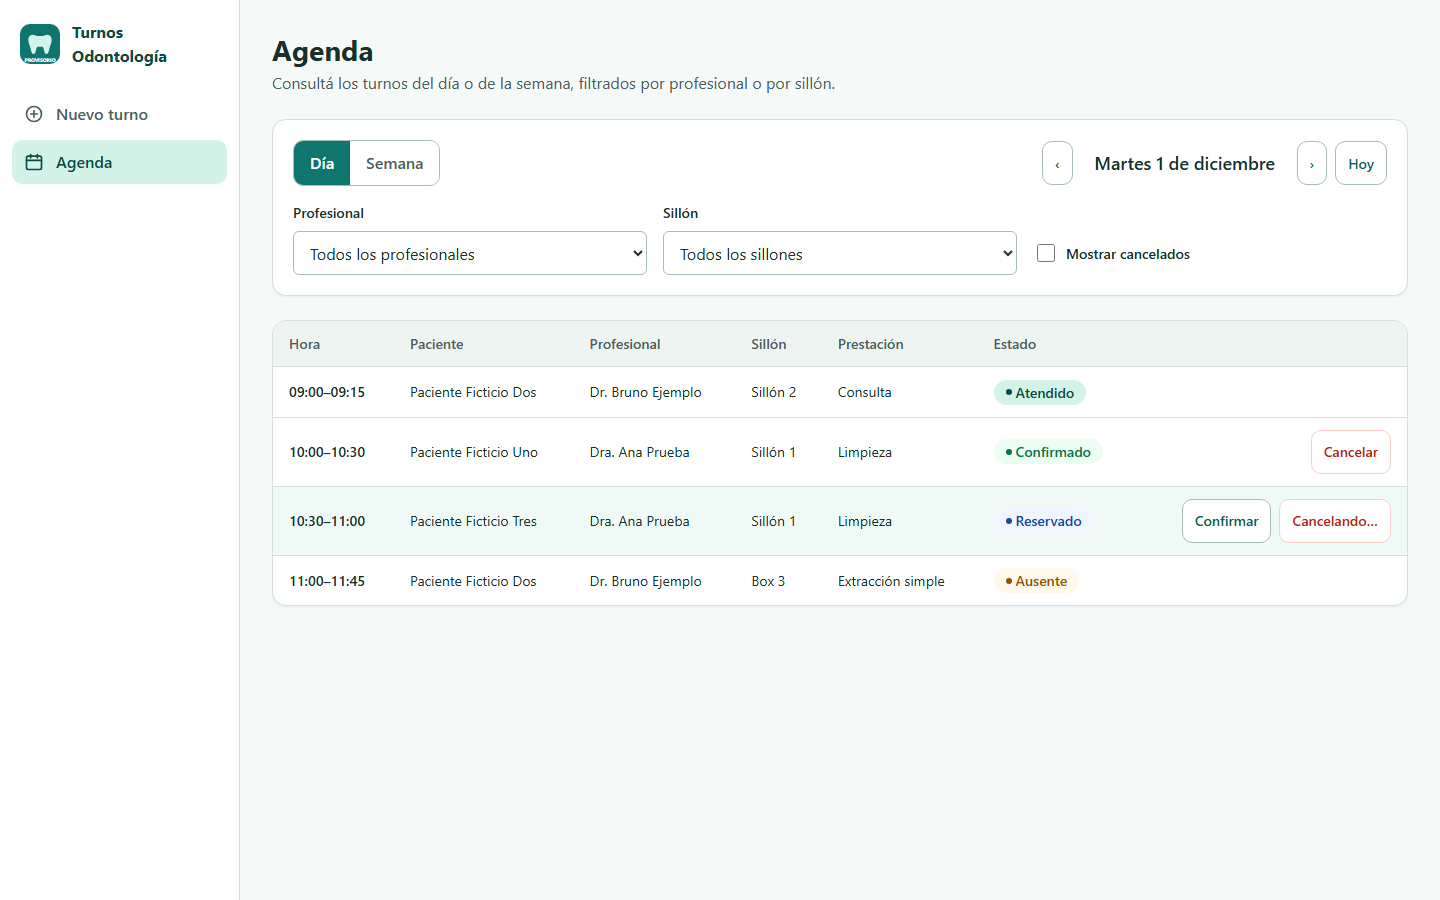
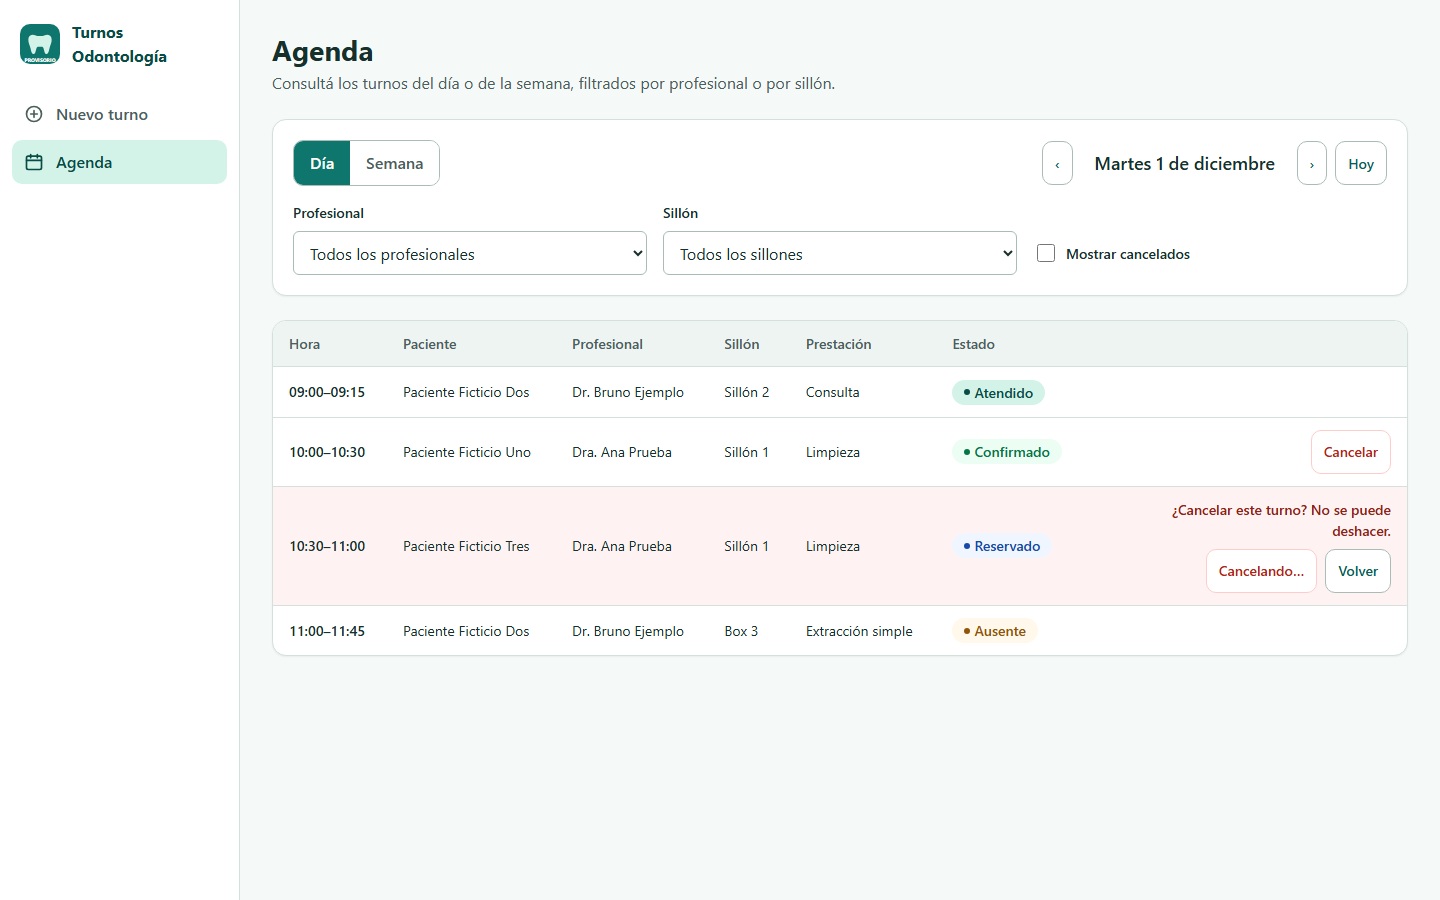
docs: ajustar propuesta de cancelar-y-cambiar-estado-de-turno

diff --git a/openspec/changes/cancelar-y-cambiar-estado-de-turno/mockups/agenda.html b/openspec/changes/cancelar-y-cambiar-estado-de-turno/mockups/agenda.html
@@ -191,14 +191,12 @@
     .alert-success { background: var(--color-success-50); border-color: var(--color-success-200); color: var(--color-success-700); }
     .alert-warning { background: var(--color-warning-50); border-color: var(--color-warning-200); color: var(--color-warning-700); }
     .acciones-fila { display: flex; gap: var(--space-2); justify-content: flex-end; white-space: nowrap; }
-    tr.resaltada { background: var(--color-primary-50); }
 
-    /* Simulación del diálogo nativo de window.confirm (solo para el mockup). */
-    .dialogo-velo { position: fixed; inset: 0; background: rgb(23 48 44 / 0.25); display: flex; align-items: flex-start; justify-content: center; padding-top: 6rem; }
-    .dialogo { width: 28rem; background: var(--color-surface); border: 1px solid var(--color-border-strong); border-radius: var(--radius-md); box-shadow: var(--shadow-md); padding: var(--space-5); display: flex; flex-direction: column; gap: var(--space-4); }
-    .dialogo .origen { font-size: var(--text-sm); color: var(--color-text-muted); }
-    .dialogo .botones { display: flex; justify-content: flex-end; gap: var(--space-2); }
-    .nota-mockup { font-size: var(--text-xs); color: var(--color-text-muted); text-align: center; }
+    /* Confirmación de la cancelación dentro de la misma fila (en lugar del diálogo nativo del navegador). */
+    .confirmacion-fila { display: flex; flex-wrap: wrap; align-items: center; justify-content: flex-end; gap: var(--space-2); max-width: 17rem; margin-left: auto; }
+    .confirmacion-fila[hidden], .acciones-fila[hidden] { display: none; }
+    .confirmacion-fila .pregunta { flex: 1 0 100%; text-align: right; font-size: var(--text-sm); font-weight: var(--weight-semibold); color: var(--color-danger-700); }
+    tr.confirmando { background: var(--color-danger-50); }
 
     /* Solo escritorio: la vista móvil queda fuera de este change (decisión P4 del Explore). */
   </style>
@@ -344,6 +342,11 @@
                   <button class="btn btn-secondary btn-sm" type="button" data-accion id="btn-confirmar">Confirmar</button>
                   <button class="btn btn-danger btn-sm" type="button" data-accion id="btn-cancelar">Cancelar</button>
                 </div>
+                <div class="confirmacion-fila" id="confirmacion-objetivo" role="group" aria-label="Confirmar la cancelación del turno de las 10:30" hidden>
+                  <span class="pregunta">¿Cancelar este turno? No se puede deshacer.</span>
+                  <button class="btn btn-danger btn-sm" type="button" id="btn-si-cancelar">Sí, cancelar turno</button>
+                  <button class="btn btn-secondary btn-sm" type="button" id="btn-volver">Volver</button>
+                </div>
               </td>
             </tr>
             <tr>
@@ -362,19 +365,6 @@
   </main>
 </div>
 
-<!-- Estado: confirmación antes de cancelar. En la app es el diálogo nativo window.confirm. -->
-<div class="dialogo-velo" data-estado="confirmar-cancelacion">
-  <div class="dialogo" role="dialog" aria-modal="true" aria-labelledby="dialogo-texto">
-    <p class="origen">localhost:5173 dice</p>
-    <p id="dialogo-texto">¿Cancelar el turno de las 10:30 de Paciente Ficticio Tres con la Dra. Ana Prueba? Esta acción no se puede deshacer.</p>
-    <div class="botones">
-      <button class="btn btn-secondary btn-sm" type="button">Cancelar</button>
-      <button class="btn btn-primary btn-sm" type="button">Aceptar</button>
-    </div>
-    <p class="nota-mockup">Simulación: en la app es el diálogo nativo del navegador (<code>window.confirm</code>); su aspecto depende del navegador.</p>
-  </div>
-</div>
-
 <script>
   // Selector de estado del mockup: agenda.html?estado=<acciones|confirmar-cancelacion|cancelando|cancelado-ok|confirmado-ok|error-422>
   (function () {
@@ -386,15 +376,20 @@
     var acciones = document.getElementById('acciones-objetivo');
     var badge = document.getElementById('badge-objetivo');
 
-    if (estado === 'confirmar-cancelacion') {
-      fila.classList.add('resaltada');
+    var confirmacion = document.getElementById('confirmacion-objetivo');
+    if (estado === 'confirmar-cancelacion' || estado === 'cancelando') {
+      // La confirmación reemplaza a los botones de esa fila; el foco va a "Volver" (opción segura).
+      fila.classList.add('confirmando');
+      acciones.hidden = true;
+      confirmacion.hidden = false;
+      document.querySelectorAll('[data-accion]').forEach(function (b) { b.disabled = true; });
     }
     if (estado === 'cancelando') {
-      fila.classList.add('resaltada');
-      document.querySelectorAll('[data-accion]').forEach(function (b) { b.disabled = true; });
-      var cancelar = document.getElementById('btn-cancelar');
-      cancelar.textContent = 'Cancelando…';
-      cancelar.setAttribute('aria-busy', 'true');
+      var si = document.getElementById('btn-si-cancelar');
+      si.textContent = 'Cancelando…';
+      si.disabled = true;
+      si.setAttribute('aria-busy', 'true');
+      document.getElementById('btn-volver').disabled = true;
     }
     if (estado === 'cancelado-ok') {
       // Con "Mostrar cancelados" apagado, la fila cancelada ya no aparece tras recargar.

diff --git a/openspec/changes/cancelar-y-cambiar-estado-de-turno/mockups/index.html b/openspec/changes/cancelar-y-cambiar-estado-de-turno/mockups/index.html
@@ -23,8 +23,8 @@
   <p>Agenda de C-07 con los botones Cancelar y Confirmar. Design system revisión 1. Solo escritorio (1440×900). Datos ficticios. Capturas en <code>previews/</code>.</p>
   <ul>
     <li><a href="agenda.html?estado=acciones">Agenda · acciones<small>Confirmar y Cancelar en reservado; solo Cancelar en confirmado; nada en atendido y ausente</small></a></li>
-    <li><a href="agenda.html?estado=confirmar-cancelacion">Agenda · confirmar cancelación<small>Pregunta antes de cancelar (window.confirm)</small></a></li>
-    <li><a href="agenda.html?estado=cancelando">Agenda · cancelando<small>Botón ocupado y acciones deshabilitadas</small></a></li>
+    <li><a href="agenda.html?estado=confirmar-cancelacion">Agenda · confirmar cancelación<small>La fila pide confirmación: "¿Cancelar este turno? No se puede deshacer." con "Sí, cancelar turno" y "Volver"</small></a></li>
+    <li><a href="agenda.html?estado=cancelando">Agenda · cancelando<small>"Cancelando…" en la fila y el resto de las acciones deshabilitadas</small></a></li>
     <li><a href="agenda.html?estado=cancelado-ok">Agenda · turno cancelado<small>Aviso de éxito; la fila deja de aparecer tras recargar</small></a></li>
     <li><a href="agenda.html?estado=confirmado-ok">Agenda · turno confirmado<small>Aviso de éxito; la insignia pasa a Confirmado</small></a></li>
     <li><a href="agenda.html?estado=error-422">Agenda · error 422<small>TRANSICION_INVALIDA: el turno cambió antes; se recarga la agenda</small></a></li>

diff --git a/openspec/changes/cancelar-y-cambiar-estado-de-turno/design.md b/openspec/changes/cancelar-y-cambiar-estado-de-turno/design.md
@@ -67,19 +67,22 @@ Las dos son sentencias preparadas fijas, sin SQL armado a mano.
 - `mensajes.ts` suma `TRANSICION_INVALIDA` → título "El turno ya no se puede cambiar a ese estado", ayuda "Alguien lo modificó antes. Actualizamos la agenda con su estado actual.", tono `warning`.
 
 ### D6 — Botones en la Agenda (P2, P3, R7)
-- **`TablaTurnos`** recibe props opcionales: `onCancelar?(turno)`, `onConfirmar?(turno)` y `turnoOcupadoId?: number`.
+- **`TablaTurnos`** recibe props opcionales: `onPedirCancelacion?(turno)`, `onCancelar?(turno)`, `onConfirmar?(turno)`, `onVolver?()`, `turnoConfirmandoId?: number` y `turnoOcupadoId?: number`.
   - En la columna Acciones muestra **Confirmar** (`btn-secondary btn-sm`) si el turno está `reservado`, y **Cancelar** (`btn-danger btn-sm`) si está `reservado` o `confirmado`.
   - Ocultar los botones en otros estados es presentación: si alguien igual dispara la acción, la API responde 422.
-  - Sigue siendo presentacional, así que los botones aparecen también en la vista Semana sin código extra.
+  - Si `turnoConfirmandoId` es el de la fila, los botones de esa fila se reemplazan por la **confirmación en la fila**: el texto "¿Cancelar este turno? No se puede deshacer." arriba, y debajo "Sí, cancelar turno" (`btn-danger btn-sm`) y "Volver" (`btn-secondary btn-sm`). La fila se marca con `tr.confirmando`, que usa el fondo de peligro suave.
+  - La confirmación tiene `role="group"` con un `aria-label` que nombra la hora del turno. Al abrirse, el foco va a **"Volver"**, la opción segura, y `Escape` equivale a "Volver".
+  - Mientras una fila está confirmando, las acciones de las demás filas quedan deshabilitadas: hay una sola confirmación abierta a la vez.
+  - Sigue siendo presentacional, así que los botones y la confirmación aparecen también en la vista Semana sin código extra.
 - **`Agenda`** se encarga de la acción:
-  1. **Cancelar**: `window.confirm('¿Cancelar el turno de las HH:MM de <paciente> con <profesional>? Esta acción no se puede deshacer.')`. Si la respuesta es no, no hace nada.
-  2. Marca el turno como ocupado. Su botón pasa a "Cancelando…"/"Confirmando…" con `aria-busy`, y todas las acciones de la tabla se deshabilitan para evitar doble envío.
+  1. **Cancelar**: el clic en "Cancelar" solo abre la confirmación en la fila (`turnoConfirmandoId`), sin llamar a la API. "Volver" la cierra sin cambios. Recién "Sí, cancelar turno" sigue con el paso 2. "Confirmar" no pide confirmación: no es irreversible, porque el turno sigue pudiendo cancelarse.
+  2. Marca el turno como ocupado. El botón que disparó la acción ("Sí, cancelar turno" o "Confirmar") pasa a "Cancelando…" o "Confirmando…" con `aria-busy`, y todas las acciones de la tabla, incluido "Volver", se deshabilitan para evitar doble envío.
   3. Llama a `cambiarEstado`.
   4. Muestra un aviso arriba de la tabla:
      - Éxito: "Turno cancelado · <paciente> · <profesional> · <sillón> · HH:MM a HH:MM. El horario quedó libre.", o "Turno confirmado · …".
      - Error: `describirError`.
   5. Recarga con `setIntento(n + 1)`, salvo con `SIN_CONEXION`, donde no tiene sentido recargar. La agenda queda siempre con el estado real de la API, sin parchear la lista a mano.
-  - El aviso desaparece al cambiar de fecha, vista o filtro.
+  - El aviso desaparece al cambiar de fecha, vista o filtro. Cambiar de fecha, vista o filtro también cierra una confirmación abierta.
 - **`estilos.css`** suma `.btn-danger` y `.btn-danger:hover`, iguales a `design-system/components.html`, y `.acciones-fila` (botones a la derecha).
 
 ### D7 — Tests
@@ -93,9 +96,19 @@ Las dos son sentencias preparadas fijas, sin SQL armado a mano.
 1. **API** (no espera el mockup): D1–D4 y sus tests, más README.
 2. **Pantalla** (espera `Approval: approved`): D5–D6 y sus tests de `web/`.
 
+### D9 — Ajuste del 2026-11-24: confirmación en la fila en lugar de `window.confirm`
+
+**Cambio**: la decisión P2 del Explore (`window.confirm` antes de cancelar) se reemplaza por una confirmación **dentro de la misma fila** de la Agenda. Tiene el texto "¿Cancelar este turno? No se puede deshacer." y dos botones: **"Sí, cancelar turno"** (peligro) y **"Volver"**. Los detalles de comportamiento y accesibilidad están en D6.
+
+**Motivo**: en un navegador en español, el diálogo nativo muestra "Aceptar" y "Cancelar". En esta pantalla, "Cancelar" significa *no* cancelar el turno, y eso es confuso justo en una acción irreversible (`cancelado` es un estado final). Con la confirmación en la fila, el botón dice lo que hace ("Sí, cancelar turno"), la salida segura dice "Volver", y la pregunta queda al lado del turno afectado. Además, sigue el design-system (colores y botones de `tokens.css`) en lugar de un diálogo cuyo aspecto depende del navegador.
+
+**Alternativas**:
+- Mantener `window.confirm` con una pregunta bien redactada: no elimina la ambigüedad del botón "Cancelar".
+- Un modal propio: más código y manejo de foco, y saca la pregunta del contexto de la fila.
+
 ## Risks / Trade-offs
 
-- [En `window.confirm` en español, el botón "Cancelar" significa *no cancelar el turno*] → La pregunta empieza con "¿Cancelar el turno…?" y aclara que no se puede deshacer, así que "Aceptar" = cancelar. Si en la prueba manual confunde, el diálogo se puede reemplazar por una confirmación en la fila en otro change.
+- [La confirmación en la fila ensancha la columna de acciones] → La pregunta va en su propia línea, arriba de los botones, con un ancho máximo. Así las demás columnas no se aprietan (se comprobó en el mockup a 1440×900). La fila confirmando queda más alta mientras dura la pregunta.
 - [Dos pedidos simultáneos sobre el mismo turno] → BEGIN IMMEDIATE serializa y el segundo ve el estado nuevo y recibe 422. Sin test de concurrencia nuevo (P5), es el mismo mecanismo probado en C-01.
 - [Marcar `atendido` un turno futuro] → Se permite (R6). La KB no lo prohíbe y no se inventa una regla.
 - [Recarga completa de la agenda después de cada acción] → Una consulta más por clic. Es aceptable para 2 a 5 profesionales y evita que la tabla muestre un estado distinto al de la base.
@@ -116,8 +129,8 @@ Mockups en `openspec/changes/cancelar-y-cambiar-estado-de-turno/mockups/`. Parte
 |---|---|
 | `index.html` | Índice con un enlace por estado |
 | `agenda.html?estado=acciones` | Confirmar y Cancelar en el turno `reservado`; solo Cancelar en el `confirmado`; nada en `atendido` y `ausente` |
-| `agenda.html?estado=confirmar-cancelacion` | La pregunta antes de cancelar. Es una **simulación** del `window.confirm` nativo, cuyo aspecto depende del navegador |
-| `agenda.html?estado=cancelando` | Botón "Cancelando…" y acciones deshabilitadas |
+| `agenda.html?estado=confirmar-cancelacion` | Confirmación en la fila: "¿Cancelar este turno? No se puede deshacer.", con "Sí, cancelar turno" (peligro) y "Volver"; las demás acciones deshabilitadas |
+| `agenda.html?estado=cancelando` | "Sí, cancelar turno" pasa a "Cancelando…" y "Volver" se deshabilita |
 | `agenda.html?estado=cancelado-ok` | Aviso "Turno cancelado"; la fila ya no aparece tras recargar (cancelados ocultos) |
 | `agenda.html?estado=confirmado-ok` | Aviso "Turno confirmado"; la insignia pasa a Confirmado y queda solo Cancelar |
 | `agenda.html?estado=error-422` | Aviso `422 TRANSICION_INVALIDA`; la agenda recargada muestra el turno como Atendido, sin acciones |

diff --git a/openspec/changes/cancelar-y-cambiar-estado-de-turno/tasks.md b/openspec/changes/cancelar-y-cambiar-estado-de-turno/tasks.md
@@ -49,9 +49,14 @@
 
 ## 6. `web/`: botones en la Agenda
 
-- [ ] 6.1 Agregar a `TablaTurnos` las props opcionales `onCancelar`, `onConfirmar` y `turnoOcupadoId`, y los botones en la columna Acciones: Confirmar solo en `reservado`, Cancelar en `reservado` y `confirmado`, todos deshabilitados mientras hay una acción en curso (design D6); verificar que `cd web && npm run build` y `npm run lint` pasan sin advertencias
-- [ ] 6.2 En `Agenda.tsx`: `window.confirm` con hora, paciente y profesional antes de cancelar; llamada a `cambiarEstado`; aviso de éxito o error arriba de la tabla (que se limpia al cambiar fecha, vista o filtro); recarga con `intento` salvo `SIN_CONEXION`. Verificar que `cd web && npm run build`, `npm run lint` y `npm test` pasan
-- [ ] 6.3 Verificación manual con la API y la web levantadas, a 1440×900, contra cada estado del mockup: confirmar un turno reservado; cancelar uno confirmado (aceptando el diálogo) y comprobar que el horario se puede volver a reservar desde Nuevo turno; rechazar el diálogo y comprobar que no cambia nada; provocar un 422 (cambiar el turno por la API antes de tocar el botón). Guardar capturas en `openspec/changes/cancelar-y-cambiar-estado-de-turno/verify/`, solo con datos ficticios
+- [ ] 6.1 Agregar a `TablaTurnos` las props opcionales `onPedirCancelacion`, `onCancelar`, `onConfirmar`, `onVolver`, `turnoConfirmandoId` y `turnoOcupadoId` (design D6 y D9):
+  - Botones en la columna Acciones: Confirmar solo en `reservado`; Cancelar en `reservado` y `confirmado`.
+  - Confirmación en la fila: "¿Cancelar este turno? No se puede deshacer.", con "Sí, cancelar turno" (`btn-danger`) y "Volver". Tiene `role="group"`, foco inicial en "Volver" y `Escape` = Volver.
+  - `tr.confirmando` en la fila que pregunta; el resto de las acciones deshabilitadas mientras hay una confirmación abierta o una acción en curso.
+
+  Sumar `.confirmacion-fila` y `tr.confirmando` a `estilos.css`, iguales al mockup; verificar que `cd web && npm run build` y `npm run lint` pasan sin advertencias
+- [ ] 6.2 En `Agenda.tsx`: estado `turnoConfirmandoId` ("Cancelar" lo abre, "Volver" o cambiar de fecha, vista o filtro lo cierran, sin llamar a la API); "Sí, cancelar turno" y "Confirmar" llaman a `cambiarEstado`; aviso de éxito o error arriba de la tabla (que se limpia al cambiar fecha, vista o filtro); recarga con `intento` salvo `SIN_CONEXION`. Verificar que `cd web && npm run build`, `npm run lint` y `npm test` pasan
+- [ ] 6.3 Verificación manual con la API y la web levantadas, a 1440×900, contra cada estado del mockup: confirmar un turno reservado; cancelar uno confirmado (con "Sí, cancelar turno") y comprobar que el horario se puede volver a reservar desde Nuevo turno; abrir la confirmación y tocar "Volver" (y `Escape`) y comprobar que no cambia nada; provocar un 422 (cambiar el turno por la API antes de tocar el botón). Guardar capturas en `openspec/changes/cancelar-y-cambiar-estado-de-turno/verify/`, solo con datos ficticios
 
 ## 7. Integración
 

diff --git a/openspec/changes/cancelar-y-cambiar-estado-de-turno/proposal.md b/openspec/changes/cancelar-y-cambiar-estado-de-turno/proposal.md
@@ -18,7 +18,7 @@ Hoy un turno solo se puede crear: si el paciente avisa que no viene, recepción 
 - Cancelar libera al profesional y al sillón: se puede volver a reservar ese mismo horario. `ausente` y `atendido` siguen ocupando (RN-TU-10). No hay anticipación mínima ni restricción de fecha (RN-TU-11).
 - Cada transición deja un evento de auditoría en la misma transacción: `cancelado`, o `estado_cambiado` para las otras tres, con el estado anterior y el nuevo. Un rechazo no deja evento (RN-AU-01, RN-GL-01).
 - Pantalla Agenda (C-07), solo escritorio:
-  - Botón **Cancelar** en los turnos `reservado` y `confirmado`, con confirmación (`window.confirm`) antes de llamar a la API.
+  - Botón **Cancelar** en los turnos `reservado` y `confirmado`. Antes de llamar a la API, la misma fila pide confirmación: "¿Cancelar este turno? No se puede deshacer.", con los botones "Sí, cancelar turno" y "Volver".
   - Botón **Confirmar** en los turnos `reservado`.
   - Aviso de resultado (éxito o error) y recarga de la agenda después de cada acción.
 - Mockup de la Agenda con los botones en `mockups/` para que lo apruebe el líder.
